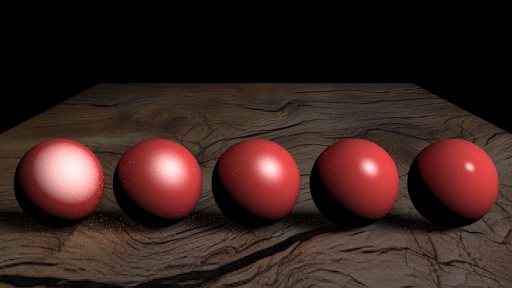
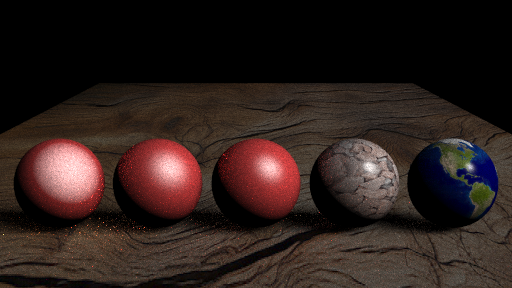
Better phong2 material

diff --git a/core/src/worldbuilder.cpp b/core/src/worldbuilder.cpp
@@ -782,16 +782,23 @@ scene worldbuilder::phong_spheres(target_camera& cam)
 {
     scene world;
     
-    //auto ground_material = make_shared<lambertian>(color(0.48, 0.83, 0.53));
+    auto color_texture = make_shared<solid_color_texture>(color(1.0, 0.1, 0.1));
+    auto earth_texture = make_shared<image_texture>("../../data/textures/earthmap.jpg");
+    auto rocky_diffuse_texture = make_shared<image_texture>("../../data/models/rocky_diffuse.jpg");
+
+    
 
     auto wood_texture = make_shared<image_texture>("../../data/textures/old-wood-cracked-knots.jpg");
     auto ground_material = make_shared<lambertian>(wood_texture);
 
-    auto phong_material1 = make_shared<phong2>(color(1.0, 0.1, 0.1), color(1.0, 1.0, 1.0), 1.0, color(0.0, 0.0, 0.0), color (0.0, 0.0, 0.0), 0.0);
-    auto phong_material2 = make_shared<phong2>(color(1.0, 0.1, 0.1), color(1.0, 1.0, 1.0), 5.0, color(0.2, 0.2, 0.2), color(0.0, 0.0, 1.0), 0.1);
-    auto phong_material3 = make_shared<phong2>(color(1.0, 0.1, 0.1), color(1.0, 1.0, 1.0), 10.0, color(0.5, 0.5, 0.5), color(0.0, 0.0, 1.0), 0.25);
-    auto phong_material4 = make_shared<phong2>(color(1.0, 0.1, 0.1), color(1.0, 1.0, 1.0), 25.0, color(0.8, 0.8, 0.8), color(0.0, 0.0, 1.0), 0.5);
-    auto phong_material5 = make_shared<phong2>(color(1.0, 0.1, 0.1), color(1.0, 1.0, 1.0), 100.0, color(1.0, 1.0, 1.0), color(0.0, 0.0, 1.0), 1.0);
+
+
+    auto phong_material1 = make_shared<phong2>(color_texture, color(0.0, 0.0, 0.0), color(1.0, 1.0, 1.0), 1.0);
+    auto phong_material2 = make_shared<phong2>(color_texture, color(0.0, 0.0, 0.0), color(1.0, 1.0, 1.0), 5.0);
+    auto phong_material3 = make_shared<phong2>(color_texture, color(0.0, 0.0, 0.0), color(1.0, 1.0, 1.0), 10.0);
+    auto phong_material4 = make_shared<phong2>(rocky_diffuse_texture, color(0.0, 0.0, 0.0), color(1.0, 1.0, 1.0), 25.0);
+    auto phong_material5 = make_shared<phong2>(earth_texture, color(0.0, 0.0, 0.0), color(1.0, 1.0, 1.0), 100.0);
+
 
     // Ground
     world.add(make_shared<box>(point3(0, -0.8, 0), point3(10, 0.5, 40), ground_material));
@@ -805,7 +812,7 @@ scene worldbuilder::phong_spheres(target_camera& cam)
 
     // Light Sources
     
-    world.add(make_shared<quad_light>(point3(150, 200, 127), vector3(330, 0, 0), vector3(0, 0, 305), 1.3, color(3,3,3), "QuadLight1"));
+    world.add(make_shared<quad_light>(point3(150, 200, 127), vector3(330, 0, 0), vector3(0, 0, 305), 1.0, color(3,3,3), "QuadLight1"));
     //world.add(make_shared<sphere_light>(point3(0.0, 2.0, 4.0), 0.2, 3, color(4, 4, 4), "SphereLight1"));
 
     cam.background_color = color(0, 0, 0);

diff --git a/core/src/materials/phong2.cpp b/core/src/materials/phong2.cpp
@@ -7,20 +7,18 @@
 #include <glm/glm.hpp>
 
 
-phong2::phong2(const color& diffuseColor, const color& specularColor,
-    float exponent, const color& transparentColor,
-    const color& reflectiveColor, float indexOfRefraction)
+phong2::phong2(std::shared_ptr<texture> diffuseTexture, const color& ambientColor, const color& specularColor, double exponent) : material(diffuseTexture)
 {
-    m_diffuseColor = diffuseColor;
+    m_ambientColor = ambientColor;
     m_specularColor = specularColor;
     m_exponent = exponent;
-    m_reflectiveColor = reflectiveColor;
-    m_transparentColor = transparentColor;
-    m_indexOfRefraction = indexOfRefraction;
 }
 
 bool phong2::scatter(const ray& r_in, const hittable_list& lights, const hit_record& rec, scatter_record& srec, randomizer& random) const
 {
+    // Get the texture color at the hit point (assuming albedo texture)
+    color diffuse_color = m_diffuse_texture->value(rec.u, rec.v, rec.hit_point);
+    
     vector3 n, l, v, r;
     float nl;
 
@@ -51,7 +49,7 @@ bool phong2::scatter(const ray& r_in, const hittable_list& lights, const hit_rec
     nl = maxDot3(n, l);
     r = glm::normalize((2.0 * nl * n) - l);
 
-    color final_color = (m_diffuseColor * nl + m_specularColor * powf(maxDot3(v, r), m_exponent)) * lightColor;
+    color final_color = (diffuse_color * nl + m_specularColor * powf(maxDot3(v, r), m_exponent)) * lightColor;
 
     // No refraction, only reflection
     srec.attenuation = final_color;

diff --git a/core/src/materials/material.h b/core/src/materials/material.h
@@ -17,8 +17,8 @@ class material
 {
 public:
     material();
-    material(std::shared_ptr<texture> _albedo);
-    material(std::shared_ptr<texture> _albedo, std::shared_ptr<texture> _normal, double transparency, double refractive_index);
+    material(std::shared_ptr<texture> _diffuse);
+    material(std::shared_ptr<texture> _diffuse, std::shared_ptr<texture> _normal, double transparency, double refractive_index);
     virtual ~material() = default;
 
     virtual bool scatter(const ray& r_in, const hittable_list& lights, const hit_record& rec, scatter_record& srec, randomizer& random) const;
@@ -26,10 +26,9 @@ public:
     virtual color emitted(const ray& r_in, const hit_record& rec, double u, double v, const point3& p) const;
 
 protected:
-    //color m_color;
-    std::shared_ptr<texture> m_albedo = nullptr;
 
-    std::shared_ptr<texture> m_normal = nullptr;
+    std::shared_ptr<texture> m_diffuse_texture = nullptr;
+    std::shared_ptr<texture> m_normal_texture = nullptr;
 
     //bool m_isTransparent = false;
     double m_refractiveIndex = 0.0;

diff --git a/core/src/materials/lambertian.cpp b/core/src/materials/lambertian.cpp
@@ -41,7 +41,7 @@ bool lambertian::scatter(const ray& r_in, const hittable_list& lights, const hit
 		// Compute the refracted ray direction
 		vector3 refracted_direction = glm::refract(r_in.direction(), rec.normal, m_refractiveIndex);
 		//srec.attenuation = color(1.0, 1.0, 1.0); // Fully transparent
-		srec.attenuation = m_albedo->value(rec.u, rec.v, rec.hit_point) * color(m_transparency);
+		srec.attenuation = m_diffuse_texture->value(rec.u, rec.v, rec.hit_point) * color(m_transparency);
 		srec.skip_pdf = true;
 		srec.skip_pdf_ray = ray(rec.hit_point, refracted_direction, r_in.time());
 		return true;
@@ -51,7 +51,7 @@ bool lambertian::scatter(const ray& r_in, const hittable_list& lights, const hit
 	}
 
 	
-	srec.attenuation = m_albedo->value(rec.u, rec.v, rec.hit_point);
+	srec.attenuation = m_diffuse_texture->value(rec.u, rec.v, rec.hit_point);
     srec.pdf_ptr = std::make_shared<cosine_pdf>(rec.normal);
     srec.skip_pdf = false;
 

diff --git a/core/src/materials/phong2.h b/core/src/materials/phong2.h
@@ -15,18 +15,15 @@ class phong2 : public material
 {
 public:
 
-    phong2(const color& diffuseColor, const color& specularColor, float exponent, const color& transparentColor, const color& reflectiveColor, float indexOfRefraction);
+    phong2(std::shared_ptr<texture> diffuseTexture, const color& ambientColor, const color& specularColor, double exponent);
 
     bool scatter(const ray& r_in, const hittable_list& lights, const hit_record& rec, scatter_record& srec, randomizer& random) const override;
     double scattering_pdf(const ray& r_in, const hit_record& rec, const ray& scattered) const override;
 
 private:
-    color m_diffuseColor;
+    color m_ambientColor;
     color m_specularColor;
-    float m_exponent;
-    color m_reflectiveColor;
-    color m_transparentColor;
-    float m_indexOfRefraction;
+    double m_exponent;
 
     static float maxDot3(const vector3& v1, const vector3& v2);
 };

diff --git a/core/src/materials/material .cpp b/core/src/materials/material .cpp
@@ -5,13 +5,13 @@ material::material()
 {
 }
 
-material::material(std::shared_ptr<texture> _albedo)
-    : material(_albedo, nullptr, 0, 0)
+material::material(std::shared_ptr<texture> _diffuse)
+    : material(_diffuse, nullptr, 0, 0)
 {
 }
 
-material::material(std::shared_ptr<texture> _albedo, std::shared_ptr<texture> _normal, double transparency, double refractive_index)
-    : m_albedo(_albedo), m_normal(_normal), m_transparency(transparency), m_refractiveIndex(refractive_index)
+material::material(std::shared_ptr<texture> _diffuse, std::shared_ptr<texture> _normal, double transparency, double refractive_index)
+    : m_diffuse_texture(_diffuse), m_normal_texture(_normal), m_transparency(transparency), m_refractiveIndex(refractive_index)
 {
 }
 

diff --git a/core/src/materials/phong.cpp b/core/src/materials/phong.cpp
@@ -53,13 +53,13 @@ bool phong::scatter(const ray& r_in, const hittable_list& lights, const hit_reco
 
 
 	// Get the texture color at the hit point (assuming albedo texture)
-	color albedo_color = m_albedo->value(rec.u, rec.v, rec.hit_point);
+	color albedo_color = m_diffuse_texture->value(rec.u, rec.v, rec.hit_point);
 
 	// Check if a normal map texture is available
-	if (m_normal)
+	if (m_normal_texture)
 	{
 		// Retrieve the normal map color at the hit point
-		color normal_map_color = m_normal->value(rec.u, rec.v, rec.hit_point);
+		color normal_map_color = m_normal_texture->value(rec.u, rec.v, rec.hit_point);
 
 		// Transform the normal map color (RGB values in [-1, 1]) to a perturbed normal
 		vector3 tangent = rec.tangent;

diff --git a/core/src/materials/oren_nayar.cpp b/core/src/materials/oren_nayar.cpp
@@ -94,7 +94,7 @@ oren_nayar::oren_nayar(std::shared_ptr<texture> _albedo, float _albedo_temp, flo
 bool oren_nayar::scatter(const ray& r_in, const hittable_list& lights, const hit_record& rec, scatter_record& srec, randomizer& random) const
 {
     vector3 scatterDirection = rec.normal + randomizer::random_on_hemisphere(rec.normal);
-    color mycolor = m_albedo->value(rec.u, rec.v, rec.hit_point);
+    color mycolor = m_diffuse_texture->value(rec.u, rec.v, rec.hit_point);
 
     // just take the first light for the moment
 	std::shared_ptr<light> mylight = std::dynamic_pointer_cast<light>(lights.objects[0]);

diff --git a/core/src/materials/metal.cpp b/core/src/materials/metal.cpp
@@ -8,7 +8,7 @@ metal::metal(const color& _color, double _fuzz) : material(std::make_shared<soli
 bool metal::scatter(const ray& r_in, const hittable_list& lights, const hit_record& rec, scatter_record& srec, randomizer& random) const
 {
     //srec.attenuation = m_color;
-    srec.attenuation = m_albedo->value(rec.u, rec.v, rec.hit_point);
+    srec.attenuation = m_diffuse_texture->value(rec.u, rec.v, rec.hit_point);
     srec.pdf_ptr = nullptr;
     srec.skip_pdf = true;
     vector3 reflected = glm::reflect(randomizer::unit_vector(r_in.direction()), rec.normal);

diff --git a/core/src/materials/glossy.cpp b/core/src/materials/glossy.cpp
@@ -13,7 +13,7 @@ glossy::glossy(std::shared_ptr<texture>& a, std::shared_ptr<texture>& f)
 bool glossy::scatter(const ray& r_in, const hittable_list& lights, const hit_record& rec, scatter_record& srec, randomizer& random) const
 {
     vector3 reflected = reflect(randomizer::unit_vector(r_in.direction()), rec.normal);
-    srec.attenuation = m_albedo->value(rec.u, rec.v, rec.hit_point);
+    srec.attenuation = m_diffuse_texture->value(rec.u, rec.v, rec.hit_point);
 
     srec.skip_pdf = true;
 

diff --git a/core/src/materials/isotropic.cpp b/core/src/materials/isotropic.cpp
@@ -12,7 +12,7 @@ isotropic::isotropic(std::shared_ptr<texture> _albedo) : material(_albedo)
 
 bool isotropic::scatter(const ray& r_in, const hittable_list& lights, const hit_record& rec, scatter_record& srec, randomizer& random) const
 {
-    srec.attenuation = m_albedo->value(rec.u, rec.v, rec.hit_point);
+    srec.attenuation = m_diffuse_texture->value(rec.u, rec.v, rec.hit_point);
     srec.pdf_ptr = std::make_shared<sphere_pdf>();
     srec.skip_pdf = false;
 
